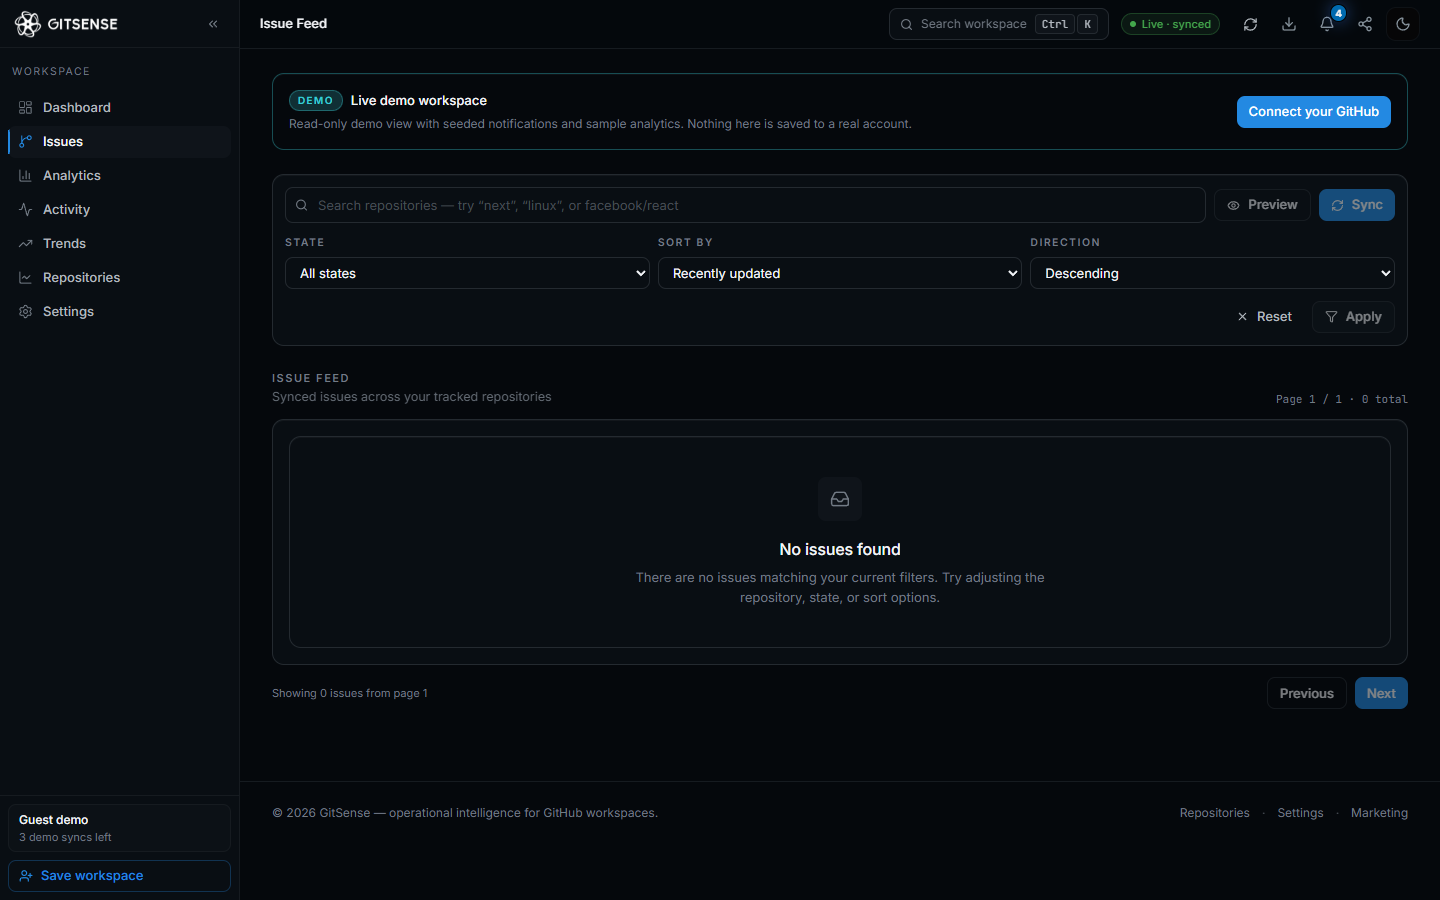
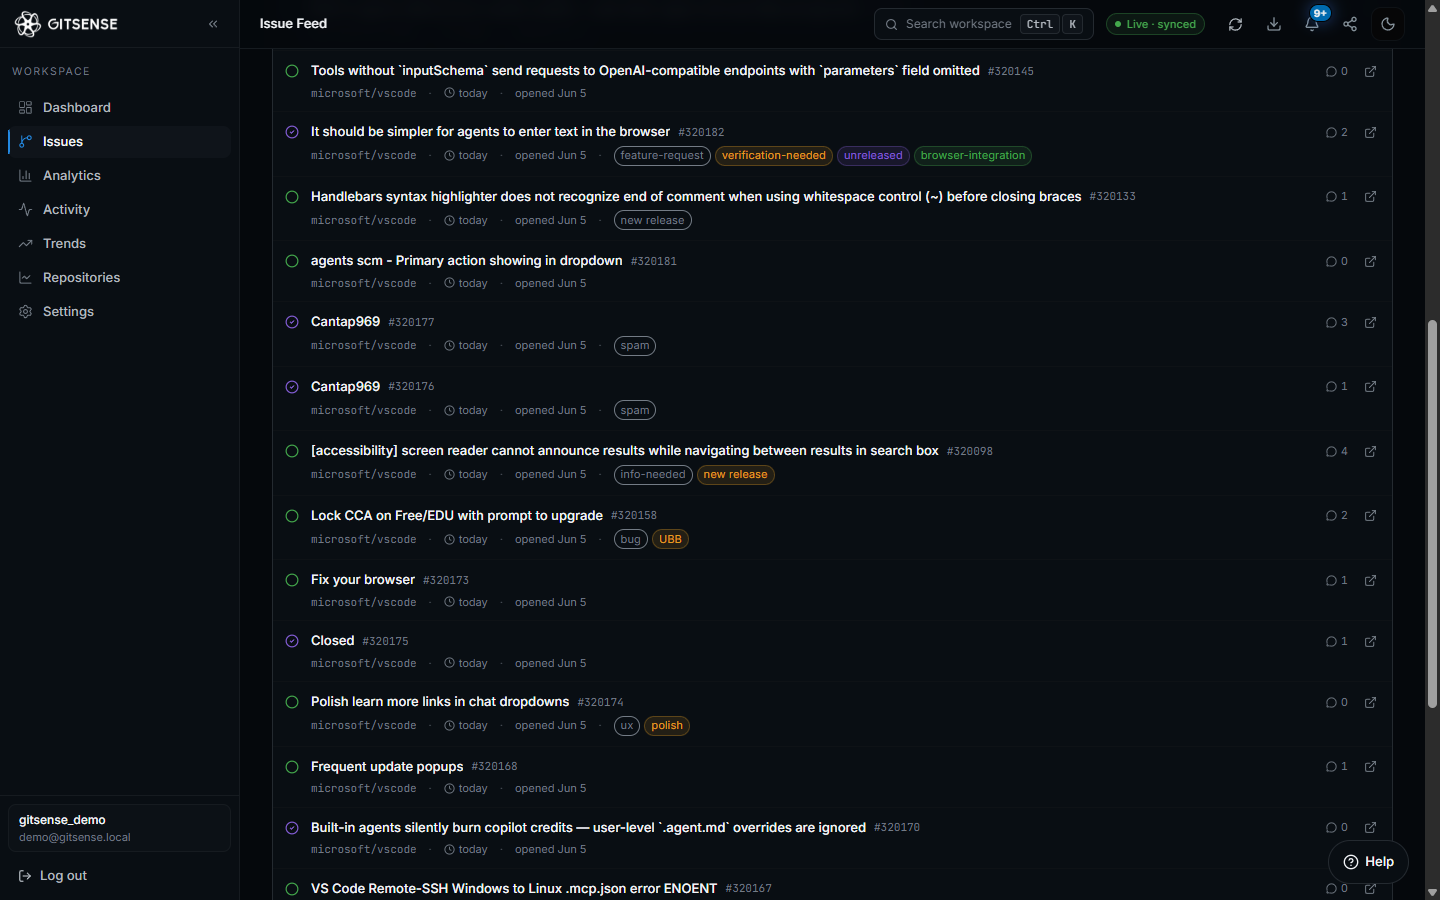
README.md UPDATE

diff --git a/README.md b/README.md
@@ -101,14 +101,44 @@ filling line reaches it** — a small, restrained progress affordance.
 
 The dashboard leads with workspace mode, briefing, and health, then
 layers metrics, insights, timeline, heatmap, charts, and the issues feed
-underneath. Linear-tight density with calm motion.
+underneath. Linear-tight density with calm motion. Populated here from
+five large open-source repositories (Next.js, React, VS Code, FastAPI,
+Tailwind) — 765,803 stars, 292,515 issues, 306 indexed for analysis.
 
 <img src="docs/screenshots/04-dashboard.png" alt="GitSense dashboard, operational view" />
+
+### AI operational briefing
+
+A grounded, 3–5 sentence narrative interpretation of the deterministic
+signal bundle. State, dominant concern, and active signals are surfaced
+with confidence; the LLM is never allowed to invent metrics, and a
+deterministic summarizer is used when the AI provider is unavailable.
+
+<img src="docs/screenshots/14-ai-briefing.png" alt="GitSense AI operational briefing card" />
+
+### Workspace health
+
+A weighted, explainable health score across stale pressure, throughput,
+maintenance, and backlog. Workspace-level rollup plus per-repository
+state distribution (Healthy / Stable / Watch / At Risk) and a contributor
+load proxy across synced repositories.
+
+<img src="docs/screenshots/15-workspace-health.png" alt="GitSense workspace health card" />
+
+### Workflow insights
+
+Severity-tagged operational signals — issue volume spikes, bug-label
+spikes, backlog growth, stale clusters — each carrying a recommendation
+and a confidence value. Insights persist across cycles and trend over
+time via the insight history service.
+
+<img src="docs/screenshots/16-workflow-insights.png" alt="GitSense workflow insights" />
 
 ### Dashboard — metrics grid
 
 Tabular-numeric metric values (28 px medium), 11 px uppercase eyebrows,
-GitHub-blue chip iconography, and blue → cyan sparklines.
+GitHub-blue chip iconography, and blue → cyan sparklines. Populated
+counts here come straight from the synced repositories.
 
 <img src="docs/screenshots/05-dashboard-metrics.png" alt="GitSense dashboard metrics grid" />
 
@@ -116,9 +146,19 @@ GitHub-blue chip iconography, and blue → cyan sparklines.
 
 Recharts re-skinned to the GitSense token system: calm axes (no axisLine,
 no tickLine), Level-2 tooltips, accent-blue closed-issue series,
-state-open green, accent-cyan label bars.
+state-open green, accent-cyan label bars. Activity timeline shows
+30-day issue update trend; label and repository distribution charts
+reflect real label and ownership data.
 
 <img src="docs/screenshots/06-dashboard-charts.png" alt="GitSense analytics charts" />
+
+### Issue intelligence
+
+Synced issues across the tracked repositories with paginated navigation,
+filters by state / repo / sort, and inline metadata: repository, age,
+labels, comments count. Page 1 of 16 across 306 indexed issues.
+
+<img src="docs/screenshots/17-issue-feed.png" alt="GitSense issue feed card" />
 
 ### Dashboard — mobile
 
